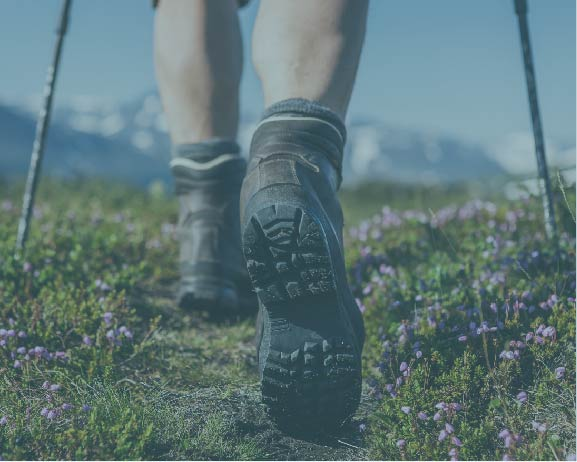
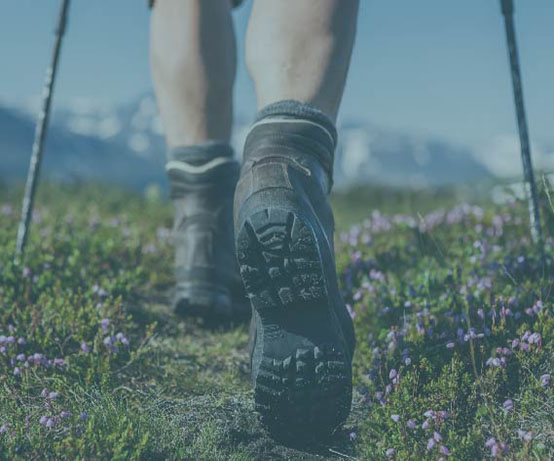
index.html

diff --git a/css/styl.css b/css/styl.css
@@ -149,140 +149,6 @@ html {
         width: 20px;
       }
 
-
-.salphoto {
-<<<<<<< Updated upstream
-background-image: url("../Image/hedderbilde.jpg");
-background-size: 100%;
-=======
-background-image: url("../Image/hedderbilde-sale.jpg");
->>>>>>> Stashed changes
-background-repeat: no-repeat;
-min-height: 90vh;
-position: relative;
-overflow: visible;
-}
-
-
-.salphoto-content {
-
-    font-size: 350px;
-    color: white;
-    position: absolute;
-    text-align: center;
-    top: -250px;
-    left: 910px;
-    font-family: 'Arima Madurai', cursive;
-    margin: 0em;
-}
-
-
-.categorys {
-    max-width: 1920px;
-    display: flex;
-    flex-flow: row ; /*flex-direction flex-wrap*/
-    justify-content: space-between;
-    flex-wrap: wrap;
-    padding-left: 10px;
-    padding-right: 10px;
-    padding-top: 10px;
-}
-
-
-.hiking-boots .jackets .hiking-gere {
-  
-    background-repeat: no-repeat;    
-}
-
-.parent02 {
-    max-width: 1920px;
-    display: flex;
-    flex-flow: row ; /*flex-direction flex-wrap*/
-    margin-left: 20px;
-    margin-top: 10px;
-}
-
-.material {
-    position: relative;
-}
-
-.mail {
-background-color: #8F4F14;
-margin-left: 10px;
-width: -webkit-fill-available;
-margin-right: 20px;
-margin-bottom: 2px;
-font-family: 'Roboto light';
-    font-size: 50px;
-    display: flex;
-    flex-flow: column;
-    justify-content: center;
-}
-
-.email{
-    position: absolute;
-    top: 2100px;
-    left: 1060px;
-}
-
-.cta {
-    position: absolute;
-    top: 2213px;
-    left: 1350px;
-    outline-style: solid;
-    outline-width: medium;
-    outline-color: #54838F;
-    padding-left: 90px;
-    padding-right: 90px;
-    padding-top: 10px;
-    padding-bottom: 10px;
-    font-size: 40px;
-}
-
-.texsta {
-    text-decoration: none;
-    color: black;
-}
-/*til html siden
-h2{
-
-position: absolute;
-color: white;
-left: 1350px;
-top:1900px;
-*/
-
-.Newsphoto{
-
-background-image: url("../Image/bacground-news.png");
-background-size: 1920px;
-background-repeat: no-repeat;
-min-height: 60vh;
-position: relative;
-margin-top: 10px;
-}
-
-.News-content {
-    font-size: 330px;
-    color: white;
-    position: absolute;
-    text-align: center;
-    top: -100px;
-    left: 450px;
-    font-family: 'Arima Madurai', cursive;
-}  
-
-.parent03 {
-    margin: 10px;
-    padding: 30px;
-    height: 395px;
-    max-width: 1920px;
-    display: flex;
-    flex-flow: row ; /*flex-direction flex-wrap*/
-    justify-content: space-between;
-    margin-top: 200px;
-
-}
 /*the footer*/
 
 .over-the-footer {
@@ -304,10 +170,6 @@ margin-top: 10px;
     align-items: center;
     
 }
-
-
-
-
 
 .instagram img, .telephon img, .facbook img, .profill img {
 
@@ -331,6 +193,46 @@ margin-top: 10px;
     margin-bottom: 20px;
 
 }
+
+/*index.html*/
+
+  .sale-hedding{
+
+    background-image: url("../Image/hedderbilde-sale.jpg");
+    position: relative;
+    background-size: cover;
+    background-repeat: no-repeat;
+    min-height: 90vh;
+  }
+
+  .sale-texst {
+  position: absolute;
+  color: white;
+  top: 50%;
+  left: 65%;
+  transform: translate( -50%, -50% );
+  font-size: 20rem;
+  font-family: 'Arima Madurai', sans-serif;
+  font-weight:bold;
+}
+
+.tre-categorys {
+
+    display: flex;
+    flex-flow: row;
+    justify-content: center;
+    align-content: center;
+    flex-wrap: wrap;
+}
+
+.tre-categorys img{
+
+    padding-left: 10px;
+    padding-right: 10px;
+}
+
+
+
 
 
 /*shipping.html*/
@@ -517,14 +419,29 @@ background-size: cover;
         font-size: 25px;
     }
 
+    .tre-categorys img {
+
+        height: 270px;
+        width: auto;
+    }
+
 
     .mail-driver-photo img, .return-icon img{
         width: 200px;
     }
 
+
+    .sale-hedding {
+        min-height: 40vh;
+    }
+
     }
 
        @media only screen and (max-width: 1499px){
+           .sale-texst {
+               font-size: 11rem; 
+               left: 50%;
+           }
            .over-the-footer {
             width: 300px; }
             

diff --git a/index.html b/index.html
@@ -60,16 +60,88 @@
 
 </header>
 
-
-<section class="sale-hedding">
-  <div class="sale-texst">SALE</div>
-</section>
 <main>
+       <section class="sale-hedding">
+           <div class="sale-texst">SALE</div>
+        </section> 
+
+
+
+        <section class="tre-categorys">
+
+             <img src="./Image/Hikingboots.jpg" alt="hiking boots in the mounten"> 
+             
+          
+
+          <div class="jackets">
+
+              <img src="./Image/jackets.jpg" alt="to people hiking in the mountens whit hiking jackets">
+          </div>
+
+          <div class="hiking-gere">
+
+            <img src="./Image/hiking-gerar.jpg" alt="hiking equipment lying on the floor, hiking poles, hiking backpack, hiking shoes">
+            
+          </div>
+
+        </section>
+
+        <section class="informasjon">
+
+          <div class="bildeinfo">
+
+          <img src="./Image/material-hedding01.jpg" alt="jacet whit rain drpos on"> 
+          </div>
+
+          <div class="mail-info">
+            
+          </div>
+
+
+        </section>
+
 
 
 
 
 </main>
+
+
+<hr class="over-the-footer">
+    
+<footer> 
+
+    <section class="info-company">
+        
+        <div class="faq">  <a href="">FAQ </a> </div>
+         <div class="return"> <a href="Eco.html"> ECO </a> </div>
+         <div class="shipping-footer"><a href="shipping.html"> SHIPPING </a></div>
+         <div class="about"><a href=""> ABOUT US </a> </div>
+         <div class="help"> <a href="" >HELP</a> </div>
+       
+    </section>
+
+    <section class="sosial-media-icon">
+
+        <div class="instagram">
+            <img src="/Image/instagram.png" alt="instagram icon">
+        </div>
+
+        <div class="telephon">
+            <img src="./Image/telefon.png" alt="telephon icon">
+        </div>
+
+        <div class="facbook">
+            <img src="./Image/facboook.png" alt="facbook icon">
+        </div>
+
+        <div class="profill">
+            <img src="./Image/profilene.png" alt="my profil icon">
+        </div>
+
+    </section>
+
+</footer>
 
 
 </body> 

diff --git a/shipping.html b/shipping.html
@@ -44,7 +44,7 @@
                    <ul class="dropdown" aria-label="submenu">
                        <li> <a href="material.html"> Matarial </a></li>
                        <li> <a href="shipping.html"> Shipping </a></li>
-                       <li> <a href=""> Member </a></li>
+                       <li> <a href="index.html"> Member </a></li>
                        <li> <a href="Eco.html"> Eco Friendly </a></li>
                    </ul>
  
